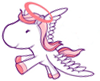
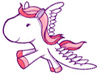
fixing djangopony

diff --git a/templates/base.html b/templates/base.html
@@ -105,7 +105,7 @@ while(x=eval(x));}hiveware_enkoder();
 
 //]]>
 </script>. Might be vaild XHTML and CSS. Fueled by <strong><a href="http://djangoproject.com/">Django</a></strong>. Hosted by <strong><a href="http://mediatemple.net/.from/latherrinserepeat.org">(mt)</a></strong>. <a href="http://feeds.latherrinserepeat.org/all_articles/">Syndication</a>. <a href="#top">Top?</a>
-<a href ="http://djangoproject.com/"><img src="/static/clean/images/django-pony.png" width="100" height="81" class="django-pony" /></a>
+<a href ="http://djangoproject.com/"><img src="/static/clean/images/django-pony.png" width="100" height="75" class="django-pony" /></a>
 </p>
 </div>
 </body>

diff --git a/static/clean/stylesheets/clean.css b/static/clean/stylesheets/clean.css
@@ -19,7 +19,7 @@ div#footer p{margin:0;padding-top:90px;padding-left:20px;text-align:left;font-si
 div#footer a{color:#000;font-weight:bold;}
 div#footer a:hover{color:#fff;}
 div#footer .f-left{float:left;}
-.django-pony{margin-left:290px;vertical-align:top;margin-top:-160px;}
+.django-pony{margin-left:280px;vertical-align:top;margin-top:-150px;}
 
 div#nav-padding{padding-top:170px;padding-left:510px;}
 div#nav{background:url(/static/clean/images/nav-bg.png) no-repeat;width:450px;height:36px;}
